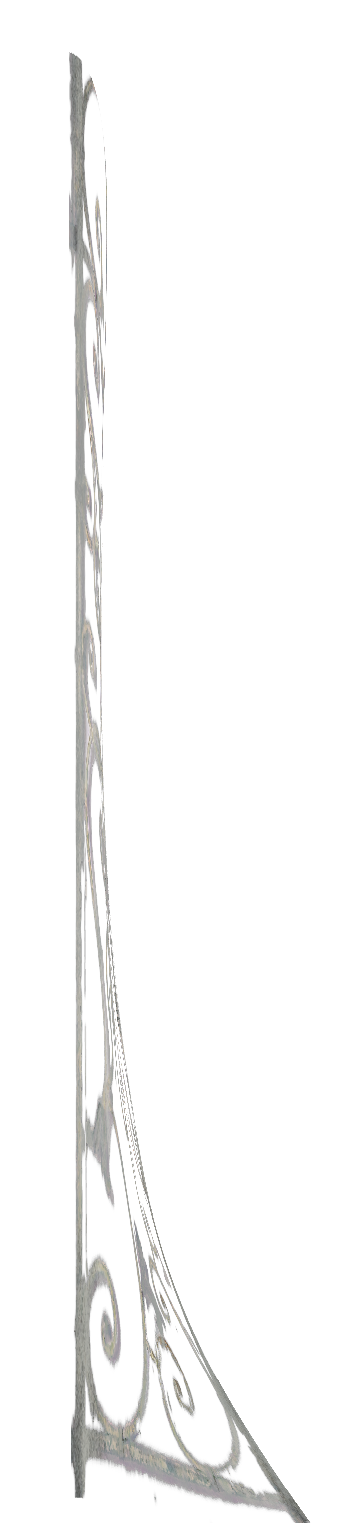
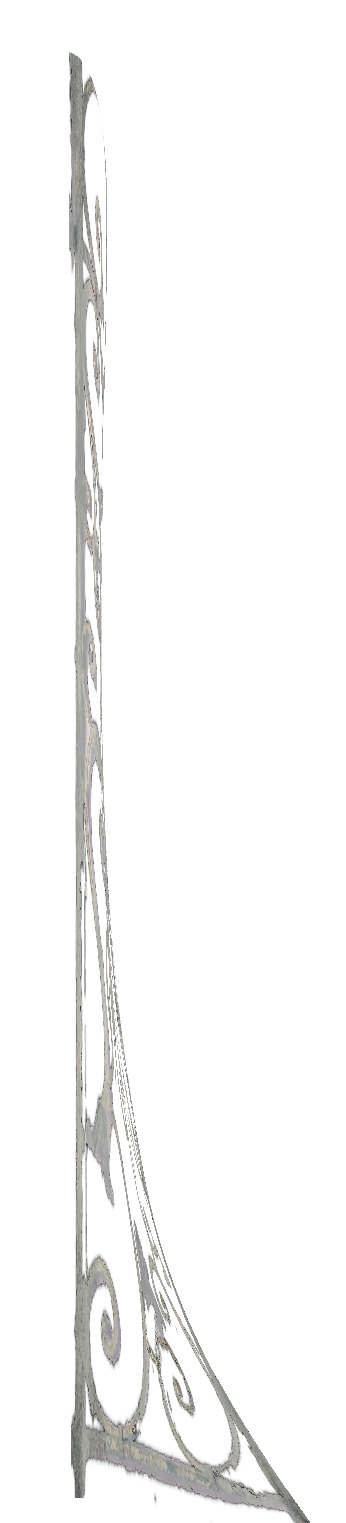
Overlap faster exposure with gates and strengthen home ornaments

diff --git a/src/pages/Landing.tsx b/src/pages/Landing.tsx
@@ -17,8 +17,8 @@ import outerLeftDesktop from "../assets/outerGate-desktop-left.webp";
 import outerRightDesktop from "../assets/outerGate-desktop-right.webp";
 import "./Landing.css";
 
-const ANIMATION_TIME_SCALE = 0.9;
-const DISSOLVE_DURATION = 1800;
+const ANIMATION_TIME_SCALE = 0.63;
+const DISSOLVE_DURATION = 1260;
 const DISSOLVE_DURATION_REDUCED = 360;
 const EASING = "cubic-bezier(0.2, 0.7, 0.3, 1)";
 const BLOB_GRADIENT =
@@ -191,7 +191,6 @@ export default function Landing() {
         <source media="(max-width: 768px)" srcSet={mainGateMobile} />
         <img
           className="landing__gate landing__gate--main"
-          onAnimationEnd={dissolve}
           src={mainGateDesktop}
           alt=""
           aria-hidden="true"
@@ -210,6 +209,7 @@ export default function Landing() {
         <source media="(max-width: 768px)" srcSet={leftGateMobile} />
         <img
           className="landing__gate landing__gate--left"
+          onAnimationStart={dissolve}
           src={leftGateDesktop}
           alt=""
           aria-hidden="true"

diff --git a/src/pages/Landing.css b/src/pages/Landing.css
@@ -13,7 +13,7 @@
   display: grid;
   place-items: center;
   background: #ffffff;
-  --dissolve-duration: 1800ms;
+  --dissolve-duration: 1260ms;
   --outer-gate-duration: 1036.8ms;
   --inner-gate-delay: calc(var(--outer-gate-duration) * 0.6);
   /* Desktop artwork by default; the mobile crop swaps in below 768px. */

diff --git a/src/pages/Home.css b/src/pages/Home.css
@@ -54,8 +54,8 @@
 
 .home__ornament {
   position: absolute;
-  width: clamp(2.75rem, 8vw, 4.75rem);
-  height: clamp(5rem, 100%, 18rem);
+  width: clamp(3.75rem, 11vw, 6.5rem);
+  height: clamp(7rem, 120%, 22rem);
   object-fit: contain;
   opacity: 1;
 }

diff --git a/README.md b/README.md
@@ -100,9 +100,10 @@ contrast, or other color filter. Link exposure effects do not affect the backdro
 The landing's outer gate pair stretches its separate mobile/desktop layers to
 the viewport, then opens both sides together with a perspective distortion.
 The original right/left/main gate sequence starts at 60% of the outer swing on
-a shared CSS timeline; the main gate's animation-end starts exposure/dissolve.
-The outer swing ends edge-on in 1.0368 seconds. The initial 10% entrance-wide
-speedup still applies to exposure/dissolve. Reduced motion
+a shared CSS timeline. Exposure/dissolve starts as the left gate begins moving,
+overlapping both remaining gates instead of waiting for the main gate to finish.
+The outer swing ends edge-on in 1.0368 seconds; exposure/dissolve takes 1.26 seconds.
+Reduced motion
 uses a brief outer-gate fade instead of a 3D swing.
 This is only the decorative backdrop; page layout keeps `min-height: 100svh`
 so short pages do not gain extra scrolling.
@@ -573,7 +574,9 @@ or playlist URL), **email**, and **phone**. Email/phone accept plain values or
 `mailto:`/`tel:` prefixes; saving normalizes them into native app links.
 Existing contacts default to other. Typed destinations are validated by the API,
 and unsaved drafts preserve both the chosen type and entered value.
-Borders render at full opacity. Social icons share a text-relative square size;
+Borders use enlarged silhouettes at full opacity, with strengthened source alpha
+so the translucent scythe artwork reads solidly without losing its feathered edges.
+Social icons share a text-relative square size;
 contact labels follow a stationary vertical arc around the illustration,
 keeping their normal reading/tab order and wrapping long titles. Public links,
 including navigation and links in rich text, use vibrant underlined text and
